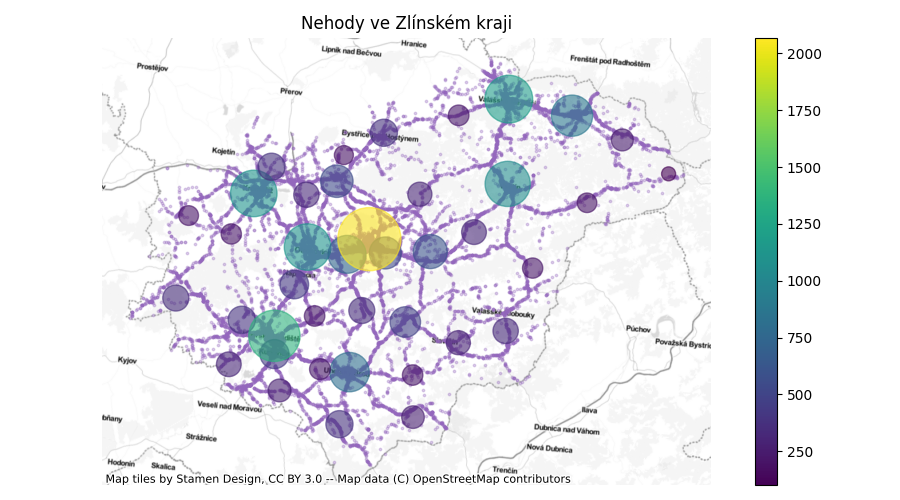
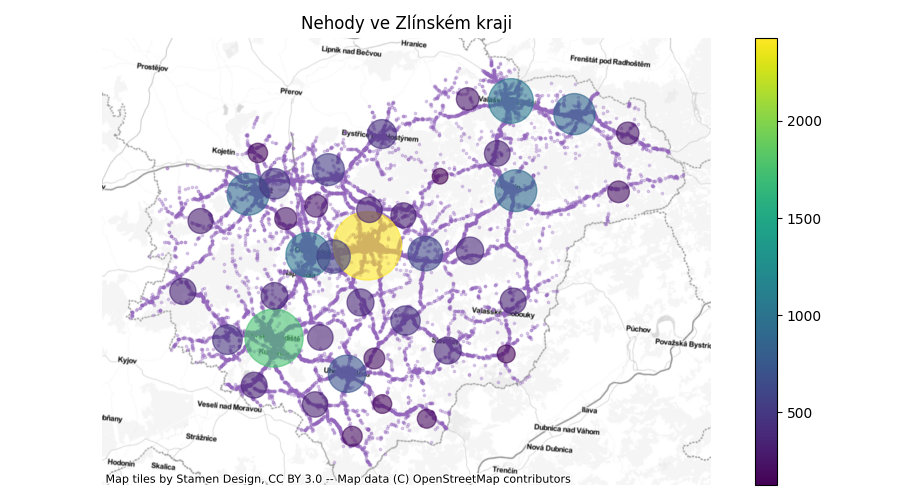
epsg not working

diff --git a/geo.py b/geo.py
@@ -81,13 +81,13 @@ def plot_cluster(gdf: geopandas.GeoDataFrame, fig_location: str = None,
     gdf_plot = gdf.merge(centers, left_on="cls_lab", right_index=True).rename(columns={"p1": "count"}). \
         set_geometry("geometry_y")
 
-    gdf_plot = gdf_plot.to_crs("epsg:3857")
+    # gdf_plot = gdf_plot.to_crs("epsg:3857")
 
     # plot
     fig, ax = plt.subplots(1, 1, figsize=(9, 5))
     accidents.plot(ax=ax, markersize=3, color="tab:purple", alpha=0.3)
     gdf_plot.plot(ax=ax, markersize=gdf_plot["count"], column="count", legend=True, alpha=0.6)
-    ctx.add_basemap(ax, crs="epsg:3857", source=ctx.providers.Stamen.TonerLite, zoom=10, alpha=1)
+    ctx.add_basemap(ax, crs="epsg:5514", source=ctx.providers.Stamen.TonerLite, zoom=10, alpha=1)
 
     ax.set(ylabel='', xlabel='')
     ax.xaxis.set_visible(False)
